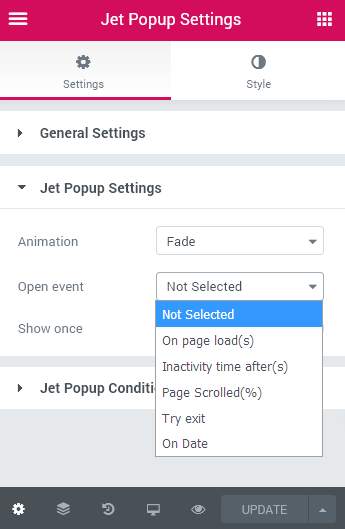
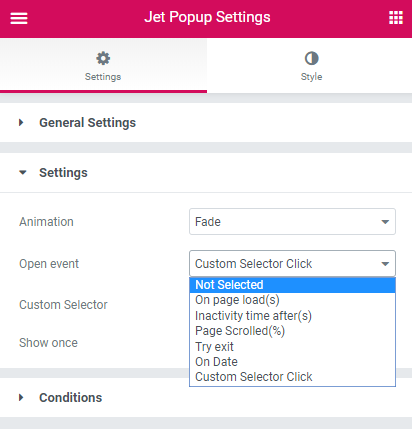
trigger event

diff --git a/sections/jetpopup-events/en/triggers.php b/sections/jetpopup-events/en/triggers.php
@@ -18,6 +18,7 @@
 		<li><b>page scrolled (%)</b> - apply this trigger event in case you want the popup window appear when the visitor scrolls the page to certain percent. </li>
 		<li><b>try exit</b> - select this trigger to show the popup window when the visitor intents to exit the page.</li>
 		<li><b>on date</b> - you can specify the date and time to start showing the popup, e.g., to showcase the offer or the congratulation, or display the reminder for the visitor. To set the date and time fill in the needed values in the <b>Open Date</b> field.</li>
+	    <li><b>custom selector click</b> - choose this <b>Open event</b> to specify the selector, that will trigger the popup when one clicks it.</li>
 	</ul>
 </li></p>
 

diff --git a/README.md b/README.md
@@ -2,6 +2,8 @@
 New Theme Documentation
 
 Changelog:
+- 09.11.18
+- added Popup trigger event on custom selector click in triggers.
 
 - 08.11.18
 
@@ -10,3 +12,4 @@ Changelog:
 - 01.11.18
 
 - added Horozontal Timeline widget documentation for JetElements plugin.
+
